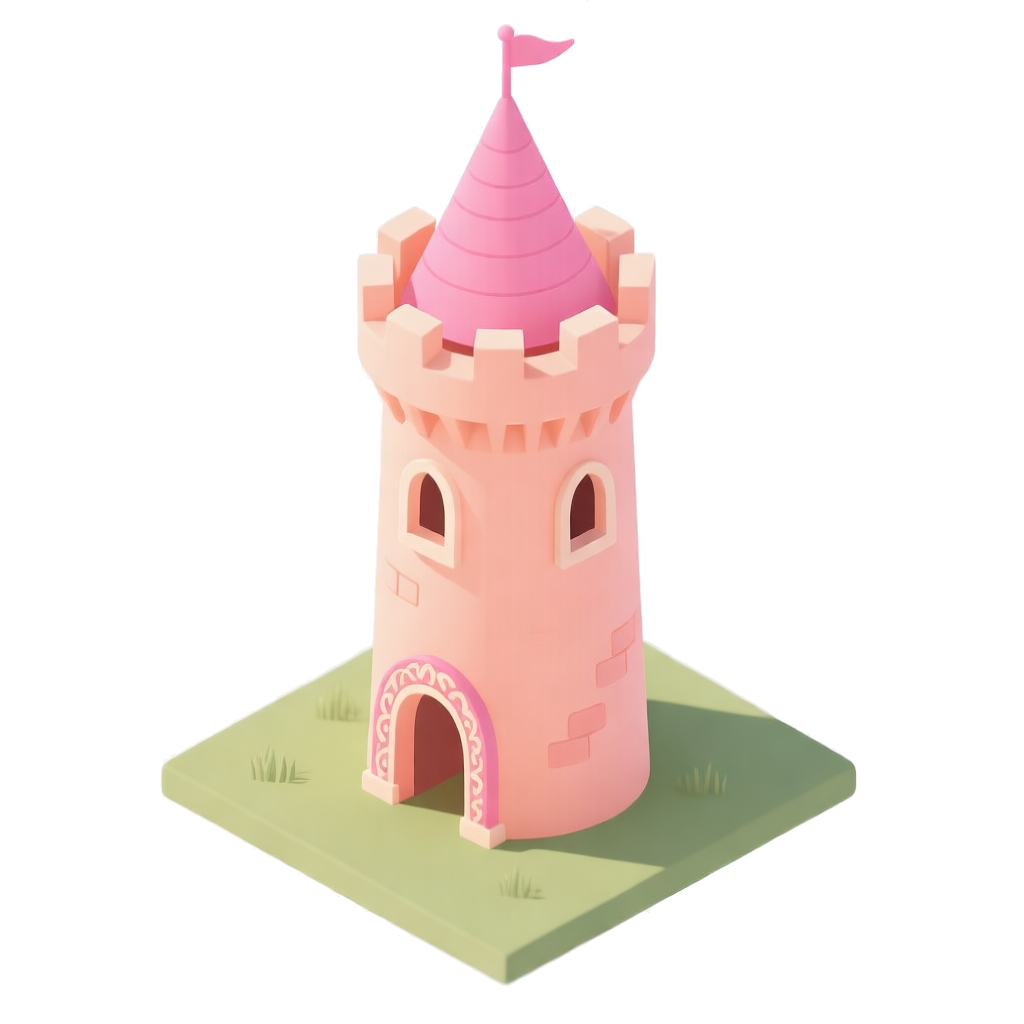
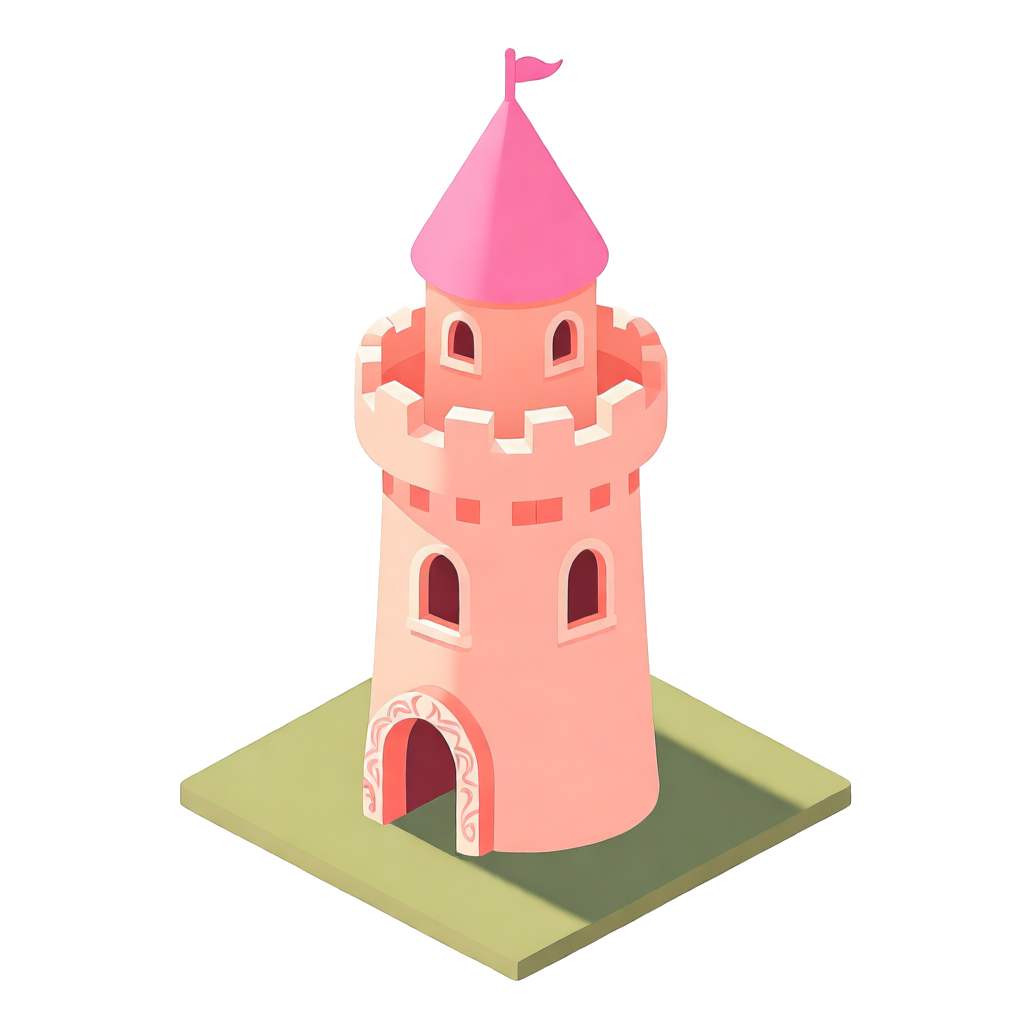
feat(ket): learning-path layout + softer chrome + cleaner alpha
Three changes addressing review feedback:

1. Learning path order — buildings now follow the natural progression of
   language learning along the winding pebble road on the regenerated bg:
     1. 词汇 (foundation)  → 2. 语法 (structure)
     3. 听 (input)         → 4. 说 (production)
     5. 读 (input @scale)  → 6. 写 (full output)
   Each chip name-tag carries a small ordinal badge (1-6) so the
   sequence is unambiguous. ModeChip.order added to the type.

2. No more harsh black chrome:
   - SVG building <image> outline:none — suppresses the browser-default
     focus frame that surrounded the building rectangle
   - Chip name-tag border softened from border-ink (slate-900) to
     border-ink/30 (subtle), border width 2.5px → 2px

3. Cleaner alpha — whiteToAlpha() now uses a two-stage threshold
   (>235 → α=0; 220-235 → linear scale) so anti-aliased edge pixels
   blend cleanly instead of leaving white halos around buildings (per
   image #8 vocab garden halo).

Asset side: regenerated /maps/ket-island-bg.png with a clearer
'one continuous winding road through six plots' prompt + all 6
KET buildings re-processed with the tightened alpha threshold.

Changed region(s): [[0.1562, 0.0312, 0.8438, 0.9688], [0.5312, 0.6875, 0.5938, 0.75], [0.25, 0.75, 0.2812, 0.7812]]

diff --git a/apps/web/src/app/ket/page.tsx b/apps/web/src/app/ket/page.tsx
@@ -80,65 +80,74 @@ export default async function KetPortalPage(props: {
 
   const portal = "ket" as const;
 
-  // Pixel-perfect compositing approach (Path B): the empty-island
-  // background lives at /maps/ket-island-bg.png; each building lives at
-  // /maps/buildings/ket/<mode>.png with a transparent background. The
-  // SVG composite uses pointer-events="visiblePainted" so clicks register
-  // only on opaque building pixels — the building's alpha channel IS the
-  // click area, by construction.
-  //
-  // `placement` boxes were chosen to match the 6 empty plot positions on
-  // the bg image. Each building is drawn at its placement size; the
-  // building's own visual (with its grass platform underneath) sits on
-  // top of the matching plot. Accuracy fields are intentionally omitted
-  // — spec §2.1.1 (no fabricated UI data).
+  // LEARNING-PATH layout: the 6 buildings are positioned along the
+  // winding pebble road on /maps/ket-island-bg.png in the order kids
+  // naturally progress through language learning:
+  //     1. 词汇 (foundation)
+  //     2. 语法 (structure)
+  //     3. 听 (input — comprehension)
+  //     4. 说 (production — from input)
+  //     5. 读 (input at scale)
+  //     6. 写 (full production)
+  // Placements were chosen to land on the 6 plots visible on the new bg,
+  // walking the road from bottom-left to top-right. SVG composite uses
+  // pointer-events="visiblePainted" so clicks register only on opaque
+  // building pixels (pixel-perfect). Order index renders as a small
+  // numbered badge on each chip name-tag. Accuracy fields are
+  // intentionally omitted — spec §2.1.1 (no fabricated UI data).
   const chips: ModeChip[] = [
     {
+      mode: "vocab",
+      order: 1,
+      label: t.ketPortal.modes.vocab,
+      href: "/ket/vocab",
+      imgSrc: "/maps/buildings/ket/vocab.png",
+      placement: { x: 24, y: 60, w: 26, h: 26 },
+      labelAnchor: "bottom-left",
+    },
+    {
+      mode: "grammar",
+      order: 2,
+      label: t.ketPortal.modes.grammar,
+      href: "/ket/grammar",
+      imgSrc: "/maps/buildings/ket/grammar.png",
+      placement: { x: 6, y: 36, w: 24, h: 30 },
+      labelAnchor: "bottom-left",
+    },
+    {
+      mode: "listening",
+      order: 3,
+      label: t.ketPortal.modes.listening,
+      href: "/ket/listening/new",
+      imgSrc: "/maps/buildings/ket/listening.png",
+      placement: { x: 38, y: 38, w: 24, h: 26 },
+      labelAnchor: "top-left",
+    },
+    {
+      mode: "speaking",
+      order: 4,
+      label: t.ketPortal.modes.speaking,
+      href: "/ket/speaking/new",
+      imgSrc: "/maps/buildings/ket/speaking.png",
+      placement: { x: 62, y: 26, w: 24, h: 26 },
+      labelAnchor: "top-right",
+    },
+    {
       mode: "reading",
+      order: 5,
       label: t.ketPortal.modes.reading,
       href: "/ket/reading/new",
       imgSrc: "/maps/buildings/ket/reading.png",
-      placement: { x: 8, y: 38, w: 28, h: 28 },
+      placement: { x: 6, y: 10, w: 24, h: 26 },
       labelAnchor: "top-left",
     },
     {
       mode: "writing",
+      order: 6,
       label: t.ketPortal.modes.writing,
       href: "/ket/writing/new",
       imgSrc: "/maps/buildings/ket/writing.png",
-      placement: { x: 28, y: 14, w: 26, h: 28 },
-      labelAnchor: "top-left",
-    },
-    {
-      mode: "listening",
-      label: t.ketPortal.modes.listening,
-      href: "/ket/listening/new",
-      imgSrc: "/maps/buildings/ket/listening.png",
-      placement: { x: 56, y: 14, w: 24, h: 28 },
-      labelAnchor: "top-right",
-    },
-    {
-      mode: "speaking",
-      label: t.ketPortal.modes.speaking,
-      href: "/ket/speaking/new",
-      imgSrc: "/maps/buildings/ket/speaking.png",
-      placement: { x: 36, y: 36, w: 26, h: 26 },
-      labelAnchor: "top-left",
-    },
-    {
-      mode: "vocab",
-      label: t.ketPortal.modes.vocab,
-      href: "/ket/vocab",
-      imgSrc: "/maps/buildings/ket/vocab.png",
-      placement: { x: 12, y: 60, w: 28, h: 26 },
-      labelAnchor: "top-left",
-    },
-    {
-      mode: "grammar",
-      label: t.ketPortal.modes.grammar,
-      href: "/ket/grammar",
-      imgSrc: "/maps/buildings/ket/grammar.png",
-      placement: { x: 60, y: 50, w: 24, h: 32 },
+      placement: { x: 40, y: 6, w: 24, h: 26 },
       labelAnchor: "top-right",
     },
   ];

diff --git a/apps/web/scripts/generate-mascot-assets.ts b/apps/web/scripts/generate-mascot-assets.ts
@@ -100,7 +100,7 @@ const MAPS: MapTask[] = [
   {
     file: "ket-island-bg.png",
     prompt:
-      "Cheerful children's storybook illustrated empty island viewed from a slight isometric angle, called KET Island, lush green island floating on calm blue water, six EMPTY GRASSY PLOTS where buildings will be placed (NO BUILDINGS, NO HOUSES, NO STRUCTURES present), winding pastel pebble path connecting the six empty plots, fluffy soft white clouds drifting in clear pastel sky, smiling sun in upper corner, palm trees and small bushes scattered around the island edges, no people, no text, no logos, no watermarks, flat 2D vector illustration style, vibrant kid-friendly pastel palette, professional children's book illustration",
+      "Cheerful children's storybook empty island viewed from a slight isometric angle, lush green island floating on calm blue water, ONE CONTINUOUS WINDING PASTEL PEBBLE ROAD that visibly snakes from the bottom-left corner of the island all the way up to the top-right corner, passing through six clearly distinct empty grass plots arranged in sequential order along the road (1st plot at bottom-left start, 2nd plot lower-middle, 3rd plot center, 4th plot upper-center, 5th plot upper-middle, 6th plot at top-right end). Each plot is a flat grass square with a slightly darker green border. The pebble road is the central feature — wide, clearly visible, made of round colorful pebbles. ABSOLUTELY NO BUILDINGS, NO HOUSES, NO STRUCTURES on the plots — they are empty grass squares. Soft pastel sky with fluffy white clouds, smiling sun, palm trees scattered along the island edges. Flat 2D vector illustration style, vibrant kid-friendly pastel palette, no people, no text, no numbers, no logos, no watermarks, professional children's book illustration",
     sub: "maps",
     size: "1024x1024",
   },
@@ -168,17 +168,28 @@ interface SfResp {
 }
 
 async function whiteToAlpha(buf: Buffer): Promise<Buffer> {
-  // Convert near-white pixels (RGB all > 240) to alpha=0 so the building
-  // PNG is transparent everywhere except the building itself. Done with
-  // sharp's raw pixel access — the SF model returns clean white BGs so
-  // a single threshold pass is sufficient.
+  // Two-stage threshold to avoid white halos around anti-aliased edges:
+  //   - RGB all > 235 → alpha = 0 (fully transparent)
+  //   - RGB all > 220 but ≤ 235 → alpha = scaled (smooth fade), so AA
+  //     edge pixels blend cleanly instead of leaving a hard white halo.
+  // Tighter than the original 240 cutoff — image #8 showed a halo around
+  // the vocab garden because anti-aliased edge pixels at ~225 were still
+  // being kept fully opaque.
   const { data, info } = await sharp(buf)
     .ensureAlpha()
     .raw()
     .toBuffer({ resolveWithObject: true });
   for (let i = 0; i < data.length; i += 4) {
-    if (data[i] > 240 && data[i + 1] > 240 && data[i + 2] > 240) {
+    const r = data[i];
+    const g = data[i + 1];
+    const b = data[i + 2];
+    const minRgb = Math.min(r, g, b);
+    if (minRgb > 235) {
       data[i + 3] = 0;
+    } else if (minRgb > 220) {
+      // Linear scale: 220 → α=255, 235 → α=0
+      const alpha = Math.round(((235 - minRgb) / 15) * 255);
+      data[i + 3] = Math.max(0, Math.min(255, alpha));
     }
   }
   return sharp(data, {

diff --git a/apps/web/src/components/PortalMap.tsx b/apps/web/src/components/PortalMap.tsx
@@ -34,6 +34,12 @@ export interface ModeChip {
   labelAnchor?: "top-left" | "top-right" | "bottom-left" | "bottom-right";
   /** Renders the chip name-tag in the highlighted ink-black variant. */
   active?: boolean;
+  /**
+   * Ordinal in the learning path (1-based). When set, a small numbered
+   * badge renders inside the chip name-tag so kids can see the journey
+   * order: 1=词汇, 2=语法, 3=听, 4=说, 5=读, 6=写.
+   */
+  order?: number;
 }
 
 interface PortalMapProps {
@@ -149,7 +155,9 @@ export function PortalMap({
 
         {/* Layer 2: per-building click images.
             visiblePainted = pointer events fire only on opaque pixels →
-            pixel-perfect click areas. Cursor pointer + accessible role. */}
+            pixel-perfect click areas. Cursor pointer + accessible role.
+            outline:none + focus class suppresses the harsh browser-default
+            focus frame; we add a custom drop-shadow on hover/focus instead. */}
         {chips.map((c) => (
           <image
             key={c.mode}
@@ -159,7 +167,11 @@ export function PortalMap({
             width={c.placement.w}
             height={c.placement.h}
             preserveAspectRatio="xMidYMid meet"
-            style={{ pointerEvents: "visiblePainted", cursor: "pointer" }}
+            style={{
+              pointerEvents: "visiblePainted",
+              cursor: "pointer",
+              outline: "none",
+            }}
             filter={debug ? `url(#${DEBUG_FILTER_ID[c.mode]})` : undefined}
             role="link"
             aria-label={c.label}
@@ -196,12 +208,23 @@ export function PortalMap({
               href={c.href}
               aria-hidden="true"
               tabIndex={-1}
-              className={`pointer-events-auto absolute inline-flex cursor-pointer items-center gap-1.5 rounded-xl border-[2.5px] px-2 py-1 text-[0.7rem] font-extrabold shadow-md motion-safe:transition-transform motion-safe:duration-200 hover:scale-105 ${
+              className={`pointer-events-auto absolute inline-flex cursor-pointer items-center gap-1 rounded-xl border-2 px-2 py-1 text-[0.7rem] font-extrabold shadow-sm motion-safe:transition-transform motion-safe:duration-200 hover:scale-105 ${
                 c.active
-                  ? "bg-ink text-white border-ink"
-                  : "bg-white/95 border-ink text-ink"
+                  ? "bg-ink text-white border-ink/70"
+                  : "bg-white/95 border-ink/30 text-ink"
               } ${ANCHOR_POSITION[anchor]}`}
             >
+              {c.order !== undefined && (
+                <span
+                  className={`inline-flex h-4 w-4 items-center justify-center rounded-full text-[0.55rem] font-extrabold ${
+                    c.active
+                      ? "bg-white text-ink"
+                      : "bg-ink/85 text-white"
+                  }`}
+                >
+                  {c.order}
+                </span>
+              )}
               <span>{c.label}</span>
               {c.accuracy !== undefined && (
                 <span
